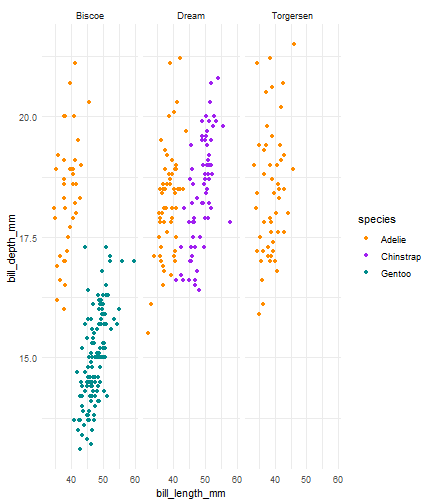
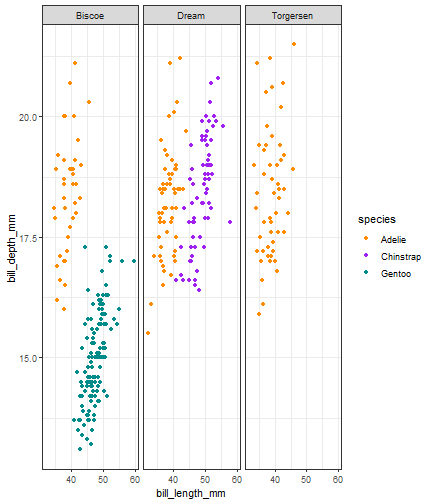
update

Changed region(s): [[0.0903, 0.0, 0.8125, 0.9226]]

diff --git a/index.html b/index.html
@@ -216,7 +216,7 @@ penguins %&gt;%
   scale_color_manual(values =
       c("darkorange","purple","cyan4")) +
   facet_wrap(~island) +
-* theme_minimal()
+* theme_bw()
 ```
 ]
  
@@ -240,7 +240,7 @@ penguins %&gt;%
   scale_color_manual(values =
       c("darkorange","purple","cyan4")) +
   facet_wrap(~island) +
-  theme_minimal() +
+  theme_bw() +
 * labs(x="Bill Length (mm)",
 *      y="Bill Depth (mm)",
 *      title = "Palmer Penguins by Islands")
@@ -267,7 +267,7 @@ penguins %&gt;%
   scale_color_manual(values =
       c("darkorange","purple","cyan4")) +
   facet_wrap(~island) +
-  theme_minimal() +
+  theme_bw() +
   labs(x="Bill Length (mm)",
        y="Bill Depth (mm)",
        title = "Palmer Penguins by Islands")
